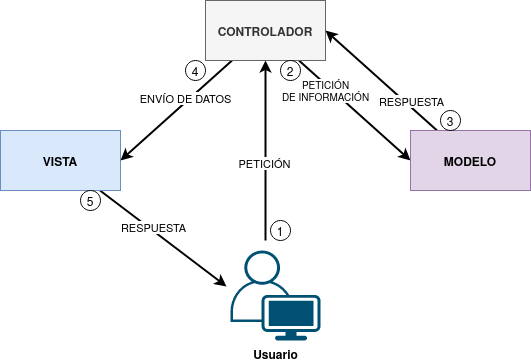
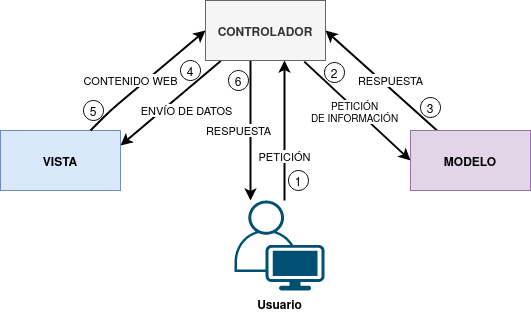
[DOCS] Especificación de diseño #70

diff --git a/docs/sphinx/source/anexos/C_Diseño.rst b/docs/sphinx/source/anexos/C_Diseño.rst
@@ -4,14 +4,320 @@ Especificación de diseño
 
 Introducción
 ------------
+Este anexo recoge todos los aspectos relacionados con el diseño de la aplicación, incluyendo aquellos que forman parte de los complementos desarrollados. Con ello se pretende conocer en detalle tanto su funcionamiento como su estructura.
 
 Diseño de datos
 ---------------
+Para la gestión de datos, la aplicación hace uso de las siguientes entidades:
 
-Diseño procedimental
---------------------
+- **Ítem** (*Item*): es la materia prima de la aplicación. Agrupa toda la información de cada uno de los datos existentes en la plataforma. La mayor parte de entidades están relacionadas con esta entidad.
+- **Conjunto de elementos** (*ElementSet*): representa un esquema de metadatos.
+- **Elemento** (*Element*): representa un elemento (metadato) de un esquema de metadatos. Está relacionado con un conjunto de elementos (*ElementSet*).
+- **Texto del elemento** (*ElementText*): representa el contenido de un elemento para una determinada entidad (e.g. ítem).
+- **Colección** (*Collection*): representa una agrupación de ítems.
+- **Etiqueta** (*Tag*): representa una etiqueta con texto simple.
+- **Registros etiqueta** (*RecordsTag*): relaciona una etiqueta con uno o varios ítems.
+- **Tipo de ítem** (*ItemType*): permite asignar un tipo a un ítem y añadirle a este elementos (metadatos) específicos del tipo.
+- **Elementos de tipos de ítem**: (*ItemTypesElements*): representa la relación entre un elemento (metadato) y un tipo de ítem.
+- **Fichero** (*File*): representa un fichero asignado a un ítem.
+- **Fichero de colección** (*CollectionFile*): representa un fichero asignado a una colección.
+- **Localización** (*Location*): representa la localización de un ítem.
+- **Localización rectangular** (*BoxLocation*): representa la localización rectangular de un ítem.
+
+.. figure:: ../_static/images/e-r-uml.png
+   :name: users
+   :scale: 90%
+   :align: center
+
+   Diagrama E/R de datos relacionados con la gestión de datos.
+
 
 Diseño arquitectónico
 ---------------------
+Como es lógico, el diseño de los complementos (*plugins*) desarrollados se ha visto condicionado por el diseño de la aplicación para la que iban dirigidos.
 
+Modelo-Vista-Controlador (MVC)
+~~~~~~~~~~~~~~~~~~~~~~~~~~~~~~
+La aplicación propuesta usa el patrón de diseño *modelo-vista-controlador* (*MVC*), el cual ofrece una serie de consejos para organizar correctamente el código desarrollado y facilitar así su mantenimiento.
+
+Las aplicaciones que siguen este patrón contienen clases que implementan la lógica de negocio (*modelos*), ficheros con código HTML y PHP (*vistas*), y clases que interactúan con los usuarios (*controladores*). En las vistas no se ha utilizado el término *clase* para referirnos a estas ya que, por lo general, son documentos simples que contienen fragmentos de código HTML y PHP.
+
+Por tanto, podemos deducir que el diseño se divide en tres capas:
+
+-  *Modelo*: modifica, gestiona y actualiza los datos de la aplicación. En nuestro caso, al contar con una única base de datos, es la capa donde se encuentra el código relacionado con las consultas, búsquedas, filtros y actualizaciones.
+-  *Vista*: muestra al usuario final la interfaz gráfica de la aplicación, es decir, las páginas, ventanas, formularios, etc. En términos de programación se correspondería con el *frontend*. En la aplicación se correspondería con la interfaz pública y de administración.
+-  *Controlador*: gestiona, atiende y procesa las peticiones realizadas por parte de los usuarios. A través de esta capa se comunican el *modelo* y la *vista*. El *controlador* solicita los datos necesarios al *modelo*, se manipulan acorde a la petición del usuario, y se entregan a la *vista* de forma que el usuario pueda visualizar los resultados esperados.
+
+.. figure:: ../_static/images/mvc.png
+   :name: da-mvc
+   :scale: 100%
+   :align: center
+
+   Diagrama que muestra la relación entre el Modelo, Vista y Controlador del patrón MVC.
+
+En el siguiente diagrama se muestra el comportamiento de la aplicación ante una *petición HTTP*.
+
+.. figure:: ../_static/images/mvc-full.png
+   :name: mvc-full
+   :scale: 90%
+   :align: center
+
+   Diagrama que muestra la relación entre el Modelo, Vista y Controlador del patrón MVC.
+
+1. El usuario entra a la aplicación a través de su navegador web con la dirección de la aplicación (e.g. *http://miaplicación.es*).
+2. El servidor web con ayuda de la extensión PHP ejecuta el script de entrada (*index.php*).
+3. Se crea una instancia de la aplicación (*Application*).
+4. La aplicación usa el componente enrutador (*router*) para analizar la URL con la que se ha accedido y determinar qué controlador procesará la petición. Si la ruta existe, se instancia al *controlador* y se llama a la acción involucrada.
+5. El método de la *acción* recupera los parámetros de las variables globales (e.g. *GET*, *POST*, *FILES*, etc.) y los procesa haciendo uso de los métodos de las clases *modelo*.
+6. Las clases *modelo* recogen los datos provistos por el controlador y llevan a cabo las tareas oportunas (e.g recuperar, añadir, eliminar o modificar datos de la base de datos).
+7. Después de llamar a los *modelos*, se pasa a la *vista* correspondiente para renderizar la página HTML.
+8. La *vista* podría, en caso de necesitarlo, consultar datos del *modelo* para la renderización.
+9. La *vista* produce la salida HTML.
+10. El *controlador* envía los datos a la instancia de la *aplicación*.
+11. Se envía la respuesta HTTP al *servidor web*.
+12. La respuesta HTTP es enviada al navegador del *cliente* (usuario).
+
+Diseño de paquetes
+~~~~~~~~~~~~~~~~~~
+Antes de mostrar cómo se encuentran organizados los complementos (*plugins*) que se han desarrollado, se va a realizar un estudio de cómo lo están los paquetes principales de la aplicación.
+
+.. figure:: ../_static/images/pck-1.png
+   :name: da-pck-1
+   :scale: 100%
+   :align: center
+
+   Diagrama de paquetes de la aplicación.
+
+- *omeka.admin* : contiene todas las clases de cada una de las *vistas* del área de administración.
+- *omeka.application*: contiene la aplicación. Alberga todo el sistema *MVC*, así como las configuraciones y servicios utilizados.
+- *omeka.files*: recoge todos los ficheros almacenados en la plataforma.
+- *omeka.install*: contiene los ficheros de instalación inicial, necesarios para inicializar los parámetros principales de la aplicación.
+- *omeka.themes*: recoge las plantillas de diseño (*themes*) utilizadas para personalizar el área pública (*frontend*) de la aplicación.
+- *omeka.plugins*: contiene todos los complementos (*plugins*) utilizados para añadir nuevas funcionalidades a la aplicación.
+
+De todos estos paquetes únicamente se especificará en detalle el paquete *plugins* por el hecho de que sólo se ha trabajado en la creación, modificación e instalación de complementos (*plugins*).
+
+Complementos (*plugins*)
+^^^^^^^^^^^^^^^^^^^^^^^^
+Para obtener una visión más clara de cómo están organizados los complementos (*plugins*) se mostrará su estructura de directorios general.
+
+.. figure:: ../_static/images/pck-2.png
+   :name: da-pck-2
+   :scale: 100%
+   :align: center
+
+   Diagrama de paquetes del complemento ficticio *FuncExtra*.
+
+- *omeka.plugins.FuncExtra*: representa el nivel superior del complemento. Alberga todo el sistema *MVC* del complemento.
+- *omeka.plugins.FuncExtra.controllers*: contiene todas las clases de la capa *controlador*.
+- *omeka.plugins.FuncExtra.libraries*: contiene clases externas utilizadas por el complemento.
+- *omeka.plugins.FuncExtra.languages*: contiene las traducciones del texto existente en el complemento.
+- *omeka.plugins.FuncExtra.models*: contiene las clases de la capa *modelo*. Permite al complemento crear y gestionar sus propias tablas en la base de datos.
+
+   - *omeka.plugins.FuncExtra.Table*: contiene parte de las clases de la capa *modelo*.
+
+- *omeka.plugins.FuncExtra.views*: contiene los archivos (que no clases) de la capa *vista*.
+
+   - *omeka.plugins.FuncExtra.views.admin*: contiene las *vistas* solo visibles en el área de administración.
+   - *omeka.plugins.FuncExtra.views.public*: contiene las *vistas* solo visibles en el área pública.
+   - *omeka.plugins.FuncExtra.views.shared*: contiene las *vistas* visibles en ambas áreas.
+
+A continuación, se muestran los paquetes de todos los complementos instalados en la aplicación.
+
+.. figure:: ../_static/images/pck-2-1.png
+   :name: da-pck-2-1
+   :scale: 100%
+   :align: center
+
+   Paquetes de los complementos instalados en la aplicación.
+
+Son un total de 21 complementos, de los cuales 6 han sido creados específicamente para el proyecto (verdes) y el resto (azules) han sido recogidos de la página oficial de Omeka o de repositorios externos. De estos últimos se han modificado 3 para añadir nuevas funcionalidades (naranjas).
+
+- *omeka.plugins.AdminMenuDesign*: permite ordenar las entradas del menú principal de navegación del área de administración en secciones (submenús).
+- *omeka.plugins.AriadnePlusTracking*: implementa todas las funcionalidades relacionadas con los tickets de seguimiento para los procesos de integración en ARIADNEplus.
+- *omeka.plugins.BulkMetadataEditor*: permite añadir, editar o eliminar metadatos de ítems de forma masiva.
+- *omeka.plugins.CENIEHExport*: permite exportar ítems y colecciones en un formato compatible con ARIADNEplus.
+- *omeka.plugins.CollectionFiles*: permite asociar ficheros a colecciones.
+- *omeka.plugins.GettySuggest*: permite sugerir términos de los vocabularios Getty durante el relleno de un metadato.
+- *omeka.plugins.CsvImportPlus*: permite importar elementos (metadatos, localizaciones, etc.) en formato CSV y gestionar las importaciones.
+- *omeka.plugins.CuratescapeAdminHelper*: implementa funcionalidades que brindan ayuda a los administradores de la aplicación.
+- *omeka.plugins.CuratescapeJSON*: implementa funcionalidades para la plantilla de diseño (*theme*).
+- *omeka.plugins.DublinCoreExtended*: implementa nuevos elementos en el esquema de metadatos (*ElementSet*) *Dublin Core*.
+- *omeka.plugins.Geolocation*: implementa diversas funcionalidades relacionadas con la geolocalización de los ítems.
+- *omeka.plugins.HideElements*: permite ocultar elementos de los esquemas de metadatos (*ElementSet*) existentes en la plataforma.
+- *omeka.plugins.TagsManager*: añade funcionalidades relacionadas con las etiquetas (*tags*).
+- *omeka.plugins.HistoryLog*: permite llevar un registro detallado de todas las acciones (eliminar, editar, crear, etc.) ejecutadas en la plataforma.
+- *omeka.plugins.IsPartOfCollection*: permite automatizar el relleno del elemento *Is Part Of* del esquema *Dublin Core* al guardar un ítem.
+- *omeka.plugins.OaipmhHarvester*: permite recolectar metadatos de otros repositorios web y gestionar las recolecciones ejecutadas.
+- *omeka.plugins.OaiPmhRepository*: permite que otros repositorios web recolecten metadatos de nuestra aplicación.
+- *omeka.plugins.SimplePages*: permite añadir páginas simples como la de "About" al área pública.
+- *omeka.plugins.SimpleVocab*: permite crear y gestionar vocabularios simples para elementos de un determinado esquema.
+- *omeka.plugins.SuperRss*: muestra enlaces para compartir publicaciones (área pública) en redes sociales.
+
+Diseño de clases
+~~~~~~~~~~~~~~~~
+Cada complemento puede contar con las siguientes clases, de las cuales sólo la primera es de uso obligatorio.
+
+- *FuncExtraPlugin*:  representa la clase principal del complemento *FuncExtra*. Permite definir las llamadas a "*hooks*" y "*filters*" y establecer las opciones de configuración del complemento.
+- *FuncExtraRecord*: implementa la capa *modelo* del complemento *FuncExtra*. Cada complemento puede implementar varios *modelos* o ninguno.
+
+   - *Table_FuncExtraRecord*: es parte de la implementación de la capa *modelo*. Sobre él se implementan métodos para hacer búsquedas sobre la base de datos y obtener como resultado objetos de la clase *FuncExtraRecord*.
+
+- *FuncExtra_IndexController*: implementa la capa *controlador* del complemento *FuncExtra*. En este caso, implementaría el *controlador* *index*. Cada complemento puede implementar varios *controladores* o ninguno.
+- *FuncExtraHelper_View_Helper_Extra*: implementa el ayudante *Extra*. Este provee a las *vistas* del complemento *FuncExtra* métodos para llevar a cabo funciones complejas como, por ejemplo, añadir elementos a un formulario. Es una clase opcional.
+
+.. figure:: ../_static/images/pck-3.png
+   :name: da-pck-3
+   :scale: 100%
+   :align: center
+
+   Paquete tipo del complemento ficticio FuncExtra.
+
+Como se puede apreciar, el nombre de cada clase varía en función del complemento al que pertenece y, en el caso de los *modelos* y *controladores*, hay que considerar además el nombre del *modelo* o *controlador* que se está implementando. Adoptando estas medidas, se evitan posibles conflictos en la nomenclatura de las clases.
+
+En el siguiente diagrama se muestra la interacción entre los componentes del complemento ficticio *FuncExtra* y la aplicación principal.
+
+.. figure:: ../_static/images/pck-4.png
+   :name: da-pck-4
+   :scale: 70%
+   :align: center
+
+   Diagrama de clases del complemento ficticio FuncExtra.
+
+Vemos como las implementaciones de las tres capas del complemeto *FuncExtra* (*models*, *views* y *controllers*) se acoplan a las capas de la aplicación principal para despúes interactuar entre ellas junto a todas las demás implementaciones de la aplicación, incluyendo las de los otros complementos instalados. Este acoplamiento hace posible que desde nuestro complemento se puedan reutilizar implementaciones tanto de la propia aplicación como de los otros complementos.
+
+Además de estas clases, se pueden añadir clases externas dentro del paquete *libraries*.
+
+El paquete *views* no tiene clases por el hecho de que las *vistas* no son consideradas como clases en el patrón *MVC*, sino una mezcla de código HTML y PHP.
+
+Todos los complementos que se han instalado en la plataforma siguen esta estructura, sin embargo, al ser todos los componentes opcionales (salvo la clase principal), existen ciertas diferencias entre ellos.
+
+A continuación, por motivos de brevedad, se mostrarán únicamente los diagramas de clase de los seis complementos que se han desarrollado de forma exclusiva para el proyecto. Aquellos que contengan paquetes nuevos se explicará su significado.
+
+.. figure:: ../_static/images/pck-5.png
+   :name: da-pck-5
+   :scale: 100%
+   :align: center
+
+   Diagrama de clases del complemento AdminMenuDesign.
+
+En el complemento *AdminMenuDesign* se hace uso de un paquete nuevo:
+
+- *omeka.plugins.AriadnePlusTracking.views.css*: almacena las hojas de estilo *CSS* utilizadas por las *vistas* del complemento.
+
+.. figure:: ../_static/images/pck-6.png
+   :name: da-pck-6
+   :scale: 70%
+   :align: center
+
+   Diagrama de clases del complemento AriadnePlusTracking.
+
+En el complemento *AriadnePlusTracking* se utilizan varios paquetes nuevos:
+
+- *omeka.plugins.AriadnePlusTracking.libraries.AriadnePlusTracking*: librería que implementa una nueva funcionalidad que permite ejecutar en segundo plano el proceso de cambio de fase del ticket.
+- *omeka.plugins.AriadnePlusTracking.views.javascripts*: facilita el uso de *JavaScrip* dentro de las vistas del complemento.
+- *omeka.plugins.AriadnePlusTracking.views.file*: implementa la carga de ficheros. En este caso se utiliza para el campo "JSON file of your matchings to Getty AAT" del esquema Monitor.
+- *omeka.plugins.AriadnePlusTracking.views.forms*: implementa los formularios de las *vistas*.
+- *omeka.plugins.AriadnePlusTracking.views.common*: implementa funcionalidades que se usan en varias *vistas*.
+- *omeka.plugins.AriadnePlusTracking.views.plugins*: implementa la página de configuración del complemento.
+- *omeka.plugins.AriadnePlusTracking.views.images*: facilita el uso de imágenes dentro de las *vistas* del complemento.
+
+.. figure:: ../_static/images/pck-7.png
+   :name: da-pck-7
+   :scale: 100%
+   :align: center
+
+   Diagrama de clases del complemento CENIEHExport.
+
+En el complemento *CENIEHExport* se hace uso de una nueva librería:
+
+- *ZipStream*: librería que permite comprimir varios ficheros (.xml) en formato *.zip* de forma dinámica, sin tener que almacenar ningún fichero en el servidor.
+
+
+.. figure:: ../_static/images/pck-8.png
+   :name: da-pck-8
+   :scale: 70%
+   :align: center
+
+   Diagrama de clases del complemento CollectionFiles
+
+En el complemento *CollectionFiles* se utiliza una nueva librería:
+
+- *CollectionFiles*: librería que implementa todas las funcionalidades que permiten asociar ficheros a colecciones.
+
+Además, se utilizan dos paquetes nuevos:
+
+- *omeka.plugins.CollectionFiles.models.Builder*: paquete utilizado para implementar *builders*. En este caso, implementa el *builder* para el objeto *CollectionFile*.
+- *omeka.plugins.CollectionFiles.models.Job*: paquete utilizado para implementar *jobs*. En este caso, el *job* implementado procesa la carga de ficheros.
+
+.. figure:: ../_static/images/pck-9.png
+   :name: da-pck-9
+   :scale: 100%
+   :align: center
+
+   Diagrama de clases del complemento IsPartOfCollection
+
+.. figure:: ../_static/images/pck-10.png
+   :name: da-pck-10
+   :scale: 100%
+   :align: center
+
+   Diagrama de clases del complemento TagsManager
+
+
+Diseño procedimental
+--------------------
+En este apartado se muestra cómo interactúan los principales componentes de la aplicación ante un determinado evento.
+
+En el diagrama de secuencia que se expone a continuación, se describe el funcionamiento interno de la aplicación ante una situación general donde el usuario accede a la aplicación para llevar a cabo una determinada acción.
+
+.. figure:: ../_static/images/dp-seq.png
+   :name: dp-seq
+   :scale: 80%
+   :align: center
+
+   Diagrama de secuencia para un caso general.
+
+En este caso se presupone que tanto el *controlador* como la *acción* indicada por el usuario son válidas. En caso contrario, se enviarían las excepciones correspondientes.
+
+
+Diseño de interfaces
+--------------------
+Para la creación del complemento *AriadnePlusTracking* se llevaron a cabo una serie de prototipos que sirvieron de ayuda visual en las fases posteriores de desarrollo.
+
+.. figure:: ../_static/images/index-prototipe.png
+   :name: index-prototipe
+   :scale: 35%
+   :align: center
+
+   Prototipos: página principal (ARIADNEplus Tracking)
+
+.. figure:: ../_static/images/new-prototipe.png
+   :name: new-prototipe
+   :scale: 35%
+   :align: center
+
+   Prototipos: creación de un ticket (ARIADNEplus Tracking)
+
+.. figure:: ../_static/images/phase-1-2-prototipe.png
+   :name: phase-1-2-prototipe
+   :scale: 35%
+   :align: center
+
+   Prototipos: primera y segunda fase de un ticket (ARIADNEplus Tracking)
+
+.. figure:: ../_static/images/phase-3-4-prototipe.png
+   :name: phase-3-4-prototipe
+   :scale: 35%
+   :align: center
+
+   Prototipos: tercera y cuarta fase de un ticket (ARIADNEplus Tracking)
+
+
+.. figure:: ../_static/images/phase-5-6-prototipe.png
+   :name: phase-5-6-prototipe
+   :scale: 35%
+   :align: center
+
+   Prototipos: quinta y sexta fase de un ticket (ARIADNEplus Tracking)
 
